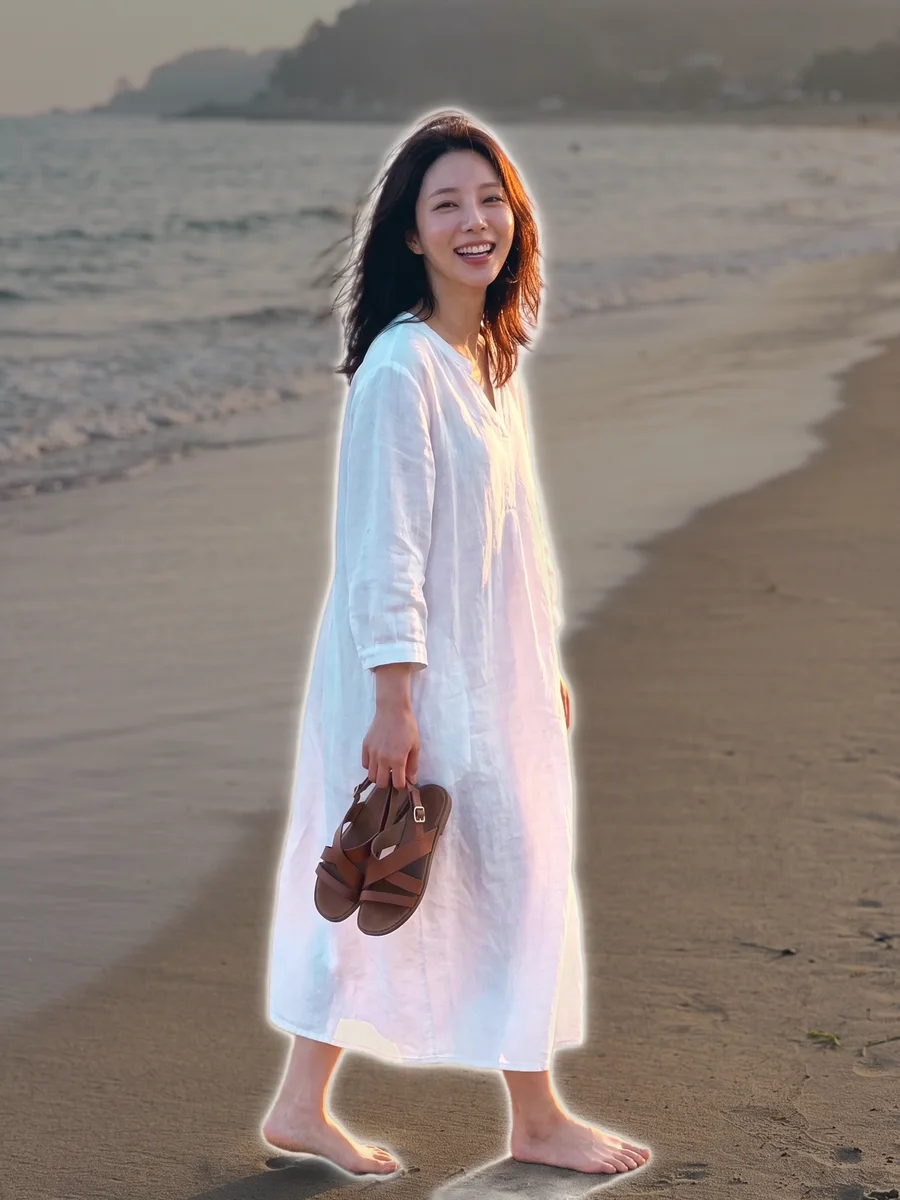
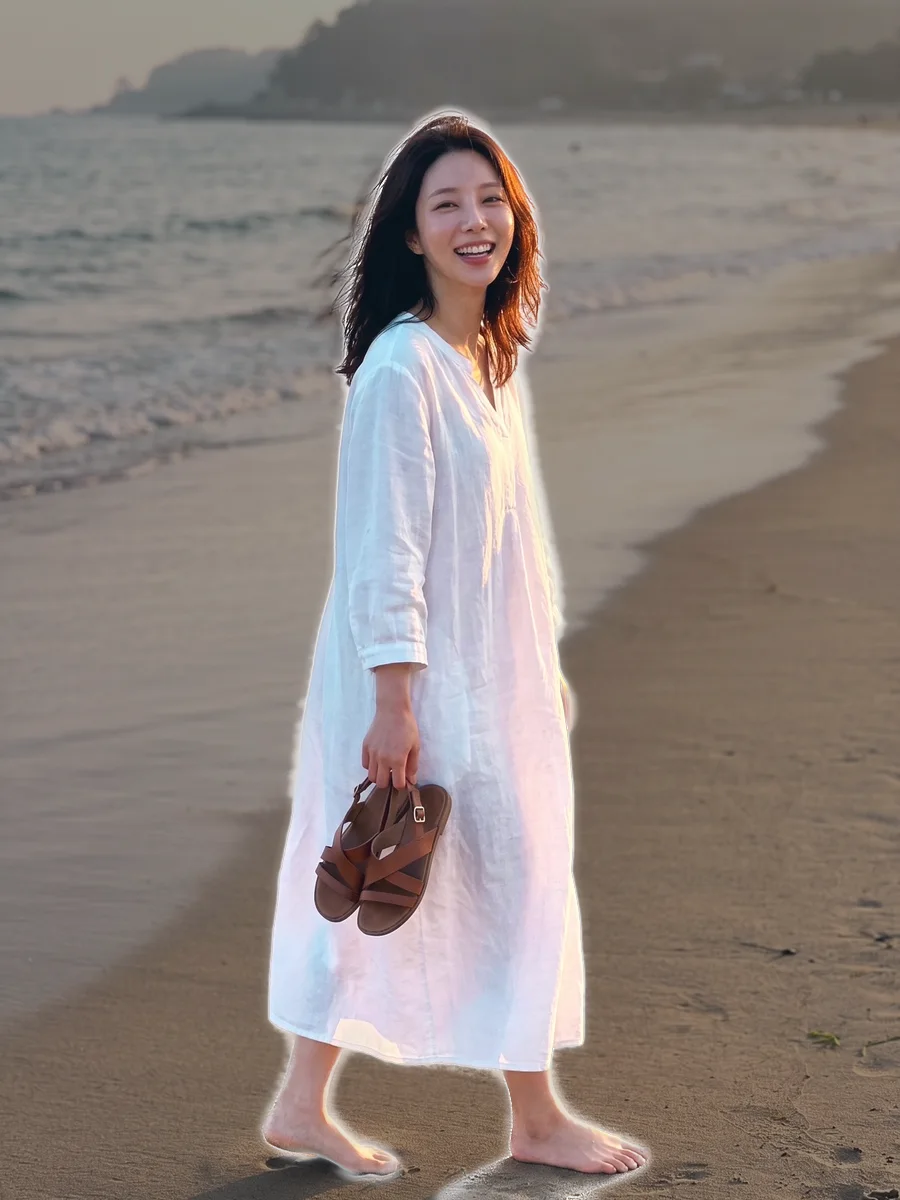
fix(filters): 피사체 글로우 — 분할 마스크를 가이드 필터로 사진 경계에 맞춤(머리카락에서 글로우가 떨어져 뜨고 사이가 안 어두워지던 것, 오너 10/27), 글로우를 경계에 붙게 얇게; 웹·iOS 같은 식(수치 일치 확인); sw v225, iOS 90
Claude-Session: https://claude.ai/code/session_01H2YvAQhUpTna7rrNEqetDc

diff --git a/src/filters.js b/src/filters.js
@@ -1729,27 +1729,53 @@ function flashStarRGBA(data, w, h, a, pos, size) {
   }
 }
 
-/* 피사체 글로우 — scratchpad glow/glow.py(오너 확인 2026-10-27)와 같은 단계: 배경 채도↓·어둡게(×0.62),
-   인물 윤곽 바깥에만 하얀 글로우(넓게 0.55 + 가까이 0.85, screen). 마스크 없으면 배경만 살짝 어둡게. */
+/* 피사체 글로우 — scratchpad glow/glow2.py 와 같은 단계: 마스크를 가이드 필터로 사진 경계에 맞춤 → 배경 채도↓·×0.62,
+   경계 바로 바깥에 얇은 하얀 글로우(가까이 0.9 + 넓게 0.35, screen). 마스크 없으면 배경만 살짝 어둡게. */
 function subjectGlowRGBA(data, w, h, a, maskIn) {
   if (!(a > 0.001)) return;
-  const n = w * h, m3 = new Float32Array(n * 3);
+  const n = w * h;
+  const m = new Float32Array(n);
   if (maskIn) for (let y = 0; y < h; y++) for (let x = 0; x < w; x++) {
-    const mx = Math.min(maskIn.w - 1, Math.floor(x * maskIn.w / w)), my = Math.min(maskIn.h - 1, Math.floor(y * maskIn.h / h));
-    const v = maskIn.data[my * maskIn.w + mx] / 255, o = (y * w + x) * 3; m3[o] = m3[o + 1] = m3[o + 2] = v;
+    // 양선형으로 키운다(최근접이면 계단)
+    const fx = Math.min(maskIn.w - 1.001, Math.max(0, (x + 0.5) * maskIn.w / w - 0.5)), fy = Math.min(maskIn.h - 1.001, Math.max(0, (y + 0.5) * maskIn.h / h - 0.5));
+    const x0 = fx | 0, y0 = fy | 0, tx = fx - x0, ty = fy - y0, M = maskIn.data, W = maskIn.w;
+    m[y * w + x] = ((M[y0 * W + x0] * (1 - tx) + M[y0 * W + x0 + 1] * tx) * (1 - ty) + (M[(y0 + 1) * W + x0] * (1 - tx) + M[(y0 + 1) * W + x0 + 1] * tx) * ty) / 255;
   }
-  const m = maskIn ? gaussApprox(m3, w, h, Math.max(1, w * 0.0015)) : m3;
-  const near = maskIn ? gaussApprox(m, w, h, w * 0.0036) : m3, far = maskIn ? gaussApprox(m, w, h, w * 0.012) : m3;
+  if (maskIn) {
+    // 마스크 경계를 사진에 맞춘다 — 가이드 필터(밝기 기준). 분할 모델 마스크는 머리카락 끝을 못 따라가 뭉툭해서
+    // 글로우가 머리에서 떨어져 뜨고 그 사이가 안 어두워졌다(오너 2026-10-27 "왜 이지랄").
+    const g = new Float32Array(n);
+    for (let i = 0, j = 0; i < n; i++, j += 4) g[i] = (data[j] * 0.299 + data[j + 1] * 0.587 + data[j + 2] * 0.114) / 255;
+    const r = Math.max(4, Math.round(w * 0.012)), eps = 1e-3;
+    const box1 = (src) => { // 적분영상 박스 평균
+      const I = new Float64Array((w + 1) * (h + 1));
+      for (let y = 0; y < h; y++) { let row = 0; for (let x = 0; x < w; x++) { row += src[y * w + x]; I[(y + 1) * (w + 1) + x + 1] = I[y * (w + 1) + x + 1] + row; } }
+      const out = new Float32Array(n);
+      for (let y = 0; y < h; y++) { const y0 = Math.max(0, y - r), y1 = Math.min(h, y + r + 1);
+        for (let x = 0; x < w; x++) { const x0 = Math.max(0, x - r), x1 = Math.min(w, x + r + 1);
+          out[y * w + x] = (I[y1 * (w + 1) + x1] - I[y0 * (w + 1) + x1] - I[y1 * (w + 1) + x0] + I[y0 * (w + 1) + x0]) / ((y1 - y0) * (x1 - x0)); } }
+      return out;
+    };
+    const gp = new Float32Array(n), gg = new Float32Array(n);
+    for (let i = 0; i < n; i++) { gp[i] = g[i] * m[i]; gg[i] = g[i] * g[i]; }
+    const mI = box1(g), mp = box1(m), cIp = box1(gp), mII = box1(gg);
+    const A = new Float32Array(n), B = new Float32Array(n);
+    for (let i = 0; i < n; i++) { const v = mII[i] - mI[i] * mI[i]; A[i] = (cIp[i] - mI[i] * mp[i]) / (v + eps); B[i] = mp[i] - A[i] * mI[i]; }
+    const mA = box1(A), mB = box1(B);
+    for (let i = 0; i < n; i++) { const v = mA[i] * g[i] + mB[i]; m[i] = Math.min(1, Math.max(0, (v - 0.5) * 1.6 + 0.5)); }
+  }
+  const m3 = new Float32Array(n * 3);
+  for (let i = 0; i < n; i++) m3[i * 3] = m3[i * 3 + 1] = m3[i * 3 + 2] = m[i];
+  const near = maskIn ? gaussApprox(m3, w, h, w * 0.0018) : m3, far = maskIn ? gaussApprox(m3, w, h, w * 0.007) : m3;
+  const dark = maskIn ? 0.62 : 0.8, tint = [0.95, 0.98, 1.0];
   for (let i = 0, j = 0; i < n; i++, j += 4) {
-    const mm = m[i * 3], out = 1 - mm;
-    const H = maskIn ? Math.min(1, Math.min(1, far[i * 3] * 1.8) * out * 0.55 + Math.min(1, near[i * 3] * 1.6) * out * 0.85) * 0.9 : 0;
-    const r = data[j] / 255, g = data[j + 1] / 255, b = data[j + 2] / 255, L = (r + g + b) / 3;
-    const dark = maskIn ? 0.62 : 0.8;
-    const warm = [1.0, 0.98, 0.95], src = [r, g, b];
+    const mm = m[i], out = 1 - mm;
+    const H = maskIn ? Math.min(1, Math.min(1, near[i * 3] * 1.8) * out * 0.9 + Math.min(1, far[i * 3] * 1.5) * out * 0.35) : 0;
+    const r = data[j] / 255, gg2 = data[j + 1] / 255, b = data[j + 2] / 255, L = (r + gg2 + b) / 3, src = [r, gg2, b];
     for (let c = 0; c < 3; c++) {
       const bg = (L + (src[c] - L) * 0.85) * dark;
       let v = src[c] * mm + bg * (1 - mm);
-      v = v + (1 - v) * H * warm[c];
+      v = v + (1 - v) * H * tint[c];
       data[j + c] = clamp8(data[j + c] + (v * 255 - data[j + c]) * a);
     }
   }

diff --git a/ios2/rimikimi/UI/Camera/LiveFilter.swift b/ios2/rimikimi/UI/Camera/LiveFilter.swift
@@ -864,17 +864,37 @@ final class LiveFilterEngine {
         }
         // 마스크는 색이 아니라 데이터 — 색공간 없이 읽어야 감마로 값이 줄지 않는다(실측: 머리 쪽 글로우가 빠졌다).
         let raw = CIImage(cvPixelBuffer: pb, options: [.colorSpace: NSNull()])
-        let m = raw.transformed(by: .init(scaleX: W / raw.extent.width, y: H / raw.extent.height)).clampedToExtent()
-            .applyingGaussianBlur(sigma: Double(W) * 0.0015).cropped(to: ext)
-        // 작업공간이 sRGB(contextOptions)라 웹과 같은 ×0.62 를 그대로 쓴다.
+        let up = raw.transformed(by: .init(scaleX: W / raw.extent.width, y: H / raw.extent.height)).clampedToExtent()
+        // 마스크 경계를 사진에 맞춘다(가이드 필터, 밝기 기준) — 분할 마스크는 머리카락 끝을 못 따라가 뭉툭해서 글로우가
+        // 머리에서 떨어져 뜨고 그 사이가 안 어두워졌다(오너 2026-10-27). filters.js subjectGlowRGBA 와 같은 r·eps·대비.
+        // 가이드 필터(He et al.) — filters.js 와 같은 식·같은 r·eps 를 Core Image 기본 필터로 짠다.
+        // (CIGuidedFilter 는 결과가 웹과 크게 달라 쓰지 않는다 — 실측.) 계산은 1/4 크기에서 하고 키운다(실시간).
+        let k: CGFloat = 0.25, ws = W * k, hs = H * k, sext = CGRect(x: ext.minX * k, y: ext.minY * k, width: ws, height: hs)
+        let gS = img.applyingFilter("CIColorControls", parameters: [kCIInputSaturationKey: 0]).transformed(by: .init(scaleX: k, y: k)).cropped(to: sext)
+        let pS = up.transformed(by: .init(scaleX: k, y: k)).cropped(to: sext)
+        let rad = max(1, W * 0.012 * k)
+        func boxAvg(_ i: CIImage) -> CIImage { i.clampedToExtent().applyingFilter("CIBoxBlur", parameters: [kCIInputRadiusKey: rad * 2 + 1]).cropped(to: sext) }
+        func mulI(_ x: CIImage, _ y: CIImage) -> CIImage { x.applyingFilter("CIMultiplyCompositing", parameters: [kCIInputBackgroundImageKey: y]) }
+        func sub(_ x: CIImage, _ y: CIImage) -> CIImage { x.applyingFilter("CISubtractBlendMode", parameters: [kCIInputBackgroundImageKey: y]) }
+        let mI = boxAvg(gS), mp = boxAvg(pS), cIp = boxAvg(mulI(gS, pS)), mII = boxAvg(mulI(gS, gS))
+        // a = (E[Ip]-E[I]E[p]) / (Var[I]+eps), b = E[p] - a E[I] — 음수가 나오므로 kernel 대신 CIColorKernel 없이: CIColorMatrix 로는 나눗셈이 안 돼서 소형 커널 사용
+        let ab = CIColorKernel(source: "kernel vec4 gfAB(__sample mI, __sample mp, __sample cIp, __sample mII) { float v = mII.r - mI.r*mI.r; float a = (cIp.r - mI.r*mp.r) / (v + 0.001); float b = mp.r - a*mI.r; return vec4(a*0.5+0.5, b*0.5+0.5, 0.0, 1.0); }")!
+            .apply(extent: sext, arguments: [mI, mp, cIp, mII])!
+        let mAB = boxAvg(ab)
+        let outS = CIColorKernel(source: "kernel vec4 gfOut(__sample ab, __sample g) { float a = ab.r*2.0-1.0; float b = ab.g*2.0-1.0; float v = clamp(a*g.r + b, 0.0, 1.0); return vec4(v, v, v, 1.0); }")!
+            .apply(extent: sext, arguments: [mAB, gS])!
+        let refined = outS.transformed(by: .init(scaleX: 1 / k, y: 1 / k)).clampedToExtent().cropped(to: ext)
+        _ = sub
+        let m = mul(refined, 1.6, bias: -0.3).cropped(to: ext)
         let bg = mul(img.applyingFilter("CIColorControls", parameters: [kCIInputSaturationKey: 0.85]), 0.62)
         let base = img.applyingFilter("CIBlendWithMask", parameters: [kCIInputBackgroundImageKey: bg, kCIInputMaskImageKey: m])
         let inv = m.applyingFilter("CIColorInvert")
-        let near = mul(m.clampedToExtent().applyingGaussianBlur(sigma: Double(W) * 0.0036).cropped(to: ext), 1.6)
-        let far = mul(m.clampedToExtent().applyingGaussianBlur(sigma: Double(W) * 0.012).cropped(to: ext), 1.8)
-        let halo = mul(mul(far, 0.55).applyingFilter("CIAdditionCompositing", parameters: [kCIInputBackgroundImageKey: mul(near, 0.85)]), 0.9)
+        let near = mul(m.clampedToExtent().applyingGaussianBlur(sigma: Double(W) * 0.0018).cropped(to: ext), 1.8)
+        let far = mul(m.clampedToExtent().applyingGaussianBlur(sigma: Double(W) * 0.007).cropped(to: ext), 1.5)
+        let halo = mul(near, 0.9).applyingFilter("CIAdditionCompositing", parameters: [kCIInputBackgroundImageKey: mul(far, 0.35)])
+            .applyingFilter("CIColorClamp")
             .applyingFilter("CIMultiplyCompositing", parameters: [kCIInputBackgroundImageKey: inv]).cropped(to: ext)
-        let white = CIImage(color: CIColor(red: 1, green: 0.98, blue: 0.95)).cropped(to: ext)
+        let white = CIImage(color: CIColor(red: 0.95, green: 0.98, blue: 1)).cropped(to: ext)
         return white.applyingFilter("CIBlendWithMask", parameters: [kCIInputBackgroundImageKey: base, kCIInputMaskImageKey: halo]).cropped(to: ext)
     }
 

diff --git a/public/sw.js b/public/sw.js
@@ -10,7 +10,7 @@
 // 새 버전 배포 시: 아래 VERSION 만 올리면 됨.
 // ============================================================
 
-const VERSION = "v224";
+const VERSION = "v225";
 const STATIC_CACHE = `rimikimi-static-${VERSION}`;
 const THUMB_CACHE = `rimikimi-thumbs-${VERSION}`;
 const DATA_CACHE = `rimikimi-data-${VERSION}`;

diff --git a/scripts/beauty-proto/subject_glow.py b/scripts/beauty-proto/subject_glow.py
@@ -1,20 +1,23 @@
-import cv2, numpy as np, sys
-def subject_glow(img, mask, dark=0.62, glow=0.9, width=0.012):
-    h,w=img.shape[:2]; m=cv2.resize(mask,(w,h)).astype(np.float32)/255.0
-    m=cv2.GaussianBlur(m,(0,0),max(1,w*0.0015))                     # 경계 부드럽게
-    I=img.astype(np.float32)/255.0
-    # 배경 어둡게(살짝 채도↓)
-    g=I.mean(axis=2,keepdims=True); bg=(g+(I-g)*0.85)*dark
+import cv2, numpy as np
+def box(a,r): return cv2.blur(a,(2*r+1,2*r+1))
+def guided(I,p,r,eps):
+    mI=box(I,r); mp=box(p,r); cIp=box(I*p,r)-mI*mp; vI=box(I*I,r)-mI*mI
+    a=cIp/(vI+eps); b=mp-a*mI
+    return box(a,r)*I+box(b,r)
+def glow(img,mask,dark=0.62):
+    h,w=img.shape[:2]; I=img.astype(np.float32)/255
+    g=cv2.cvtColor(img,cv2.COLOR_BGR2GRAY).astype(np.float32)/255
+    m=cv2.resize(mask,(w,h),interpolation=cv2.INTER_LINEAR).astype(np.float32)/255
+    r=max(4,int(w*0.012)); m=np.clip(guided(g,m,r,1e-3),0,1)          # 경계를 사진에 맞춤
+    m=np.clip((m-0.5)*1.6+0.5,0,1)
+    L=I.mean(axis=2,keepdims=True); bg=(L+(I-L)*0.85)*dark
     out=I*m[...,None]+bg*(1-m[...,None])
-    # 윤곽 바깥쪽 하얀 글로우: 마스크를 크게 번진 것 - 마스크
-    r=w*width
-    out_side=(1-m)                                                  # 글로우는 피사체 바깥에만
-    halo=np.clip(cv2.GaussianBlur(m,(0,0),r)*1.8,0,1)*out_side
-    halo2=np.clip(cv2.GaussianBlur(m,(0,0),r*0.3)*1.6,0,1)*out_side  # 가까운 테두리 선명한 빛
-    H=np.clip(halo*0.55+halo2*0.85,0,1)*glow
-    warm=np.array([1.0,0.98,0.95])
-    out=out+(1-out)*H[...,None]*warm                               # screen
+    o=1-m
+    near=np.clip(cv2.GaussianBlur(m,(0,0),w*0.0018)*1.8,0,1)*o
+    far=np.clip(cv2.GaussianBlur(m,(0,0),w*0.007)*1.5,0,1)*o
+    H=np.clip(near*0.9+far*0.35,0,1)
+    out=out+(1-out)*H[...,None]*np.array([0.95,0.98,1.0])
     return (np.clip(out,0,1)*255).astype(np.uint8)
-for f in ['beach','cafe','roof']:
+for f in ['roof','beach','cafe']:
     img=cv2.imread(f+'.png'); m=cv2.imread('m_'+f+'.png',0)
-    o=subject_glow(img,m); cv2.imwrite(f'out_{f}.jpg',o,[cv2.IMWRITE_JPEG_QUALITY,90])
+    cv2.imwrite(f'g2_{f}.jpg',glow(img,m),[cv2.IMWRITE_JPEG_QUALITY,92])
